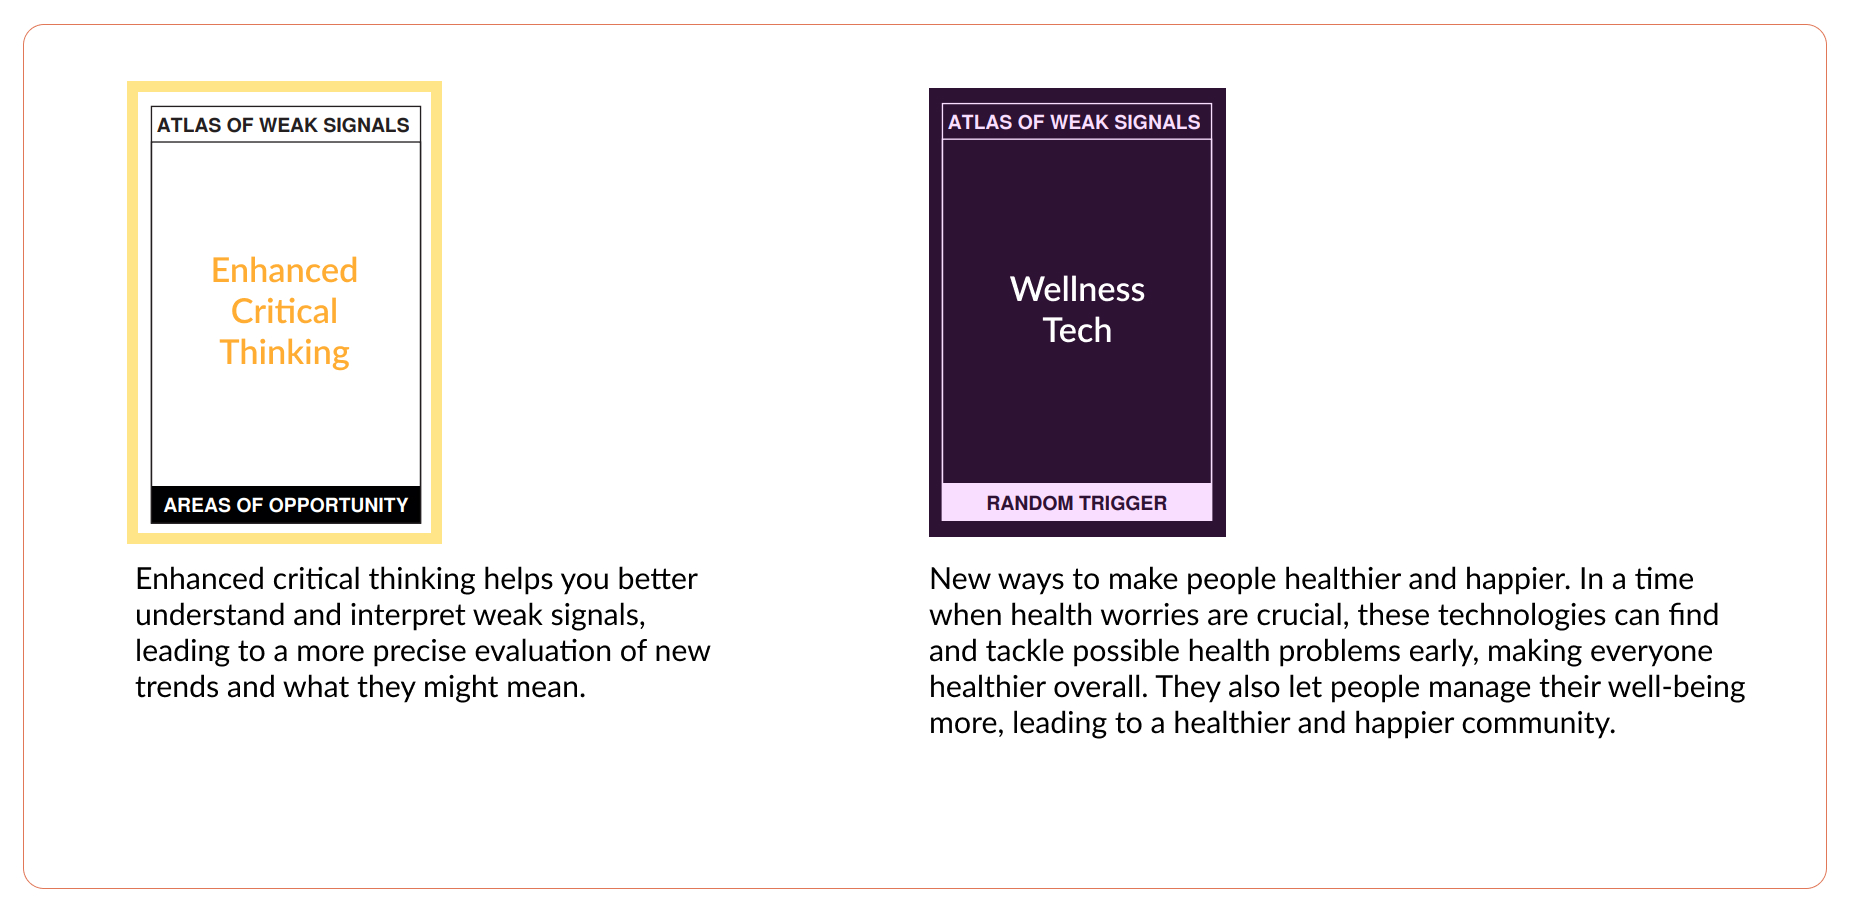
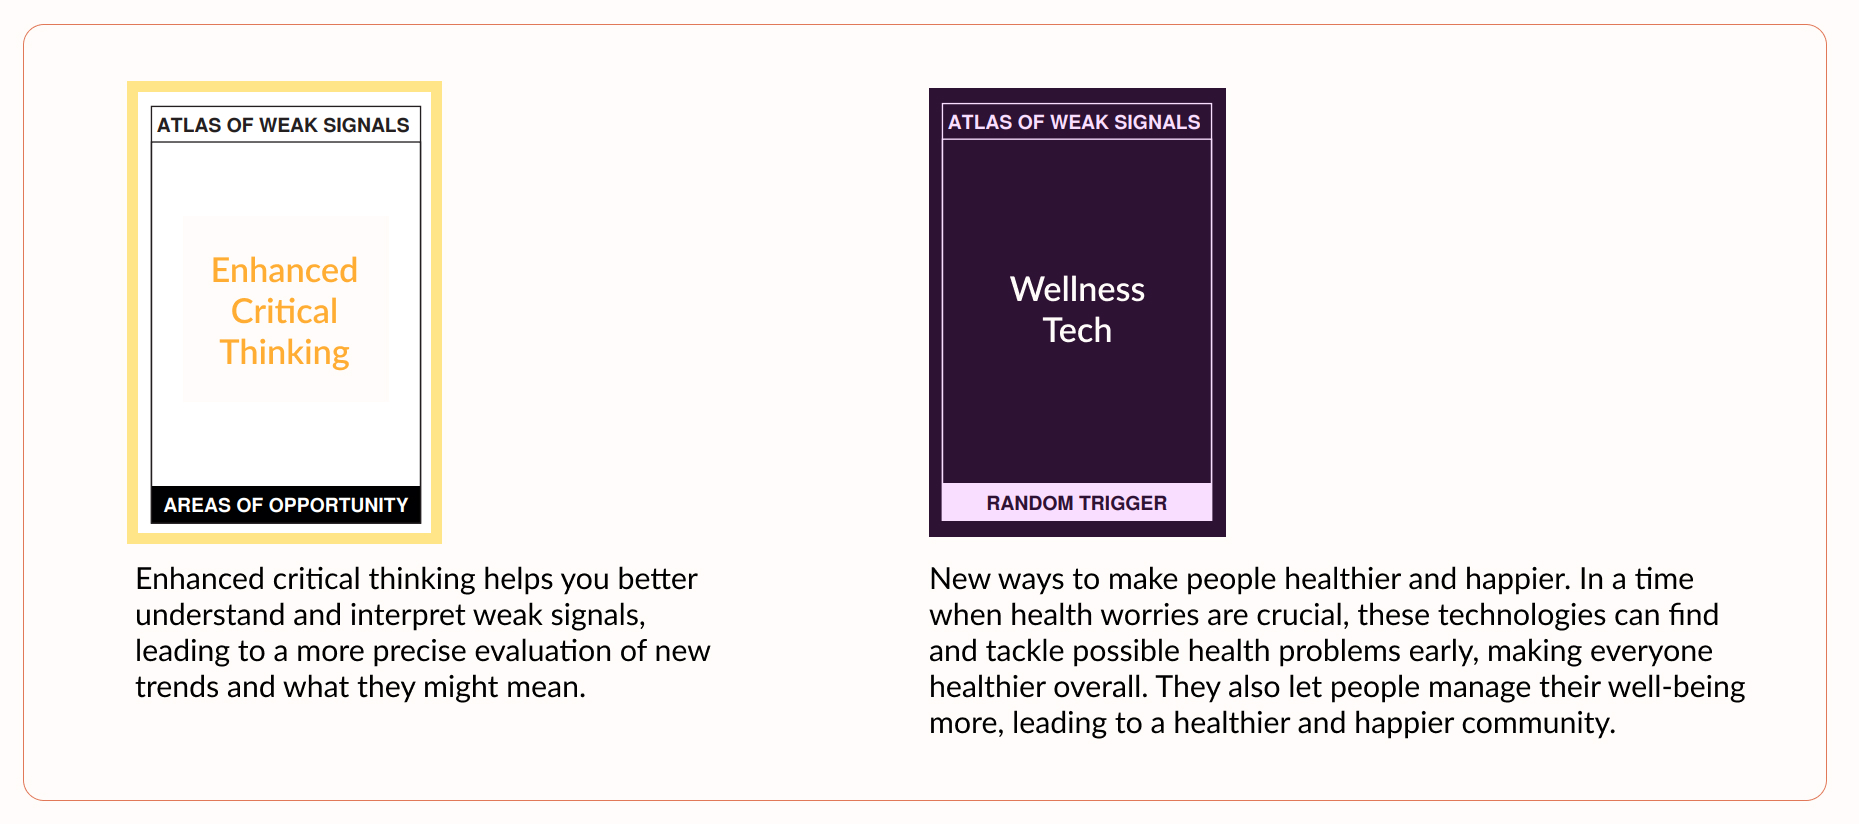
palettecorrections

diff --git a/custom/custom.css b/custom/custom.css
@@ -1,11 +1,3 @@
 body {
     background-color: #FFFCFA;
 }
-
-:root>* {
-
-    --md-primary-fg-color:        #597d49;
-    --md-primary-fg-color--light: #b7ecd8;
-    --md-primary-fg-color--dark:  #039029;
-
-}
